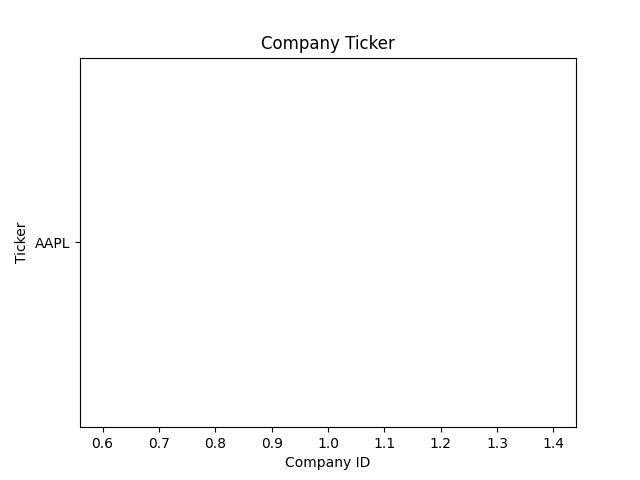
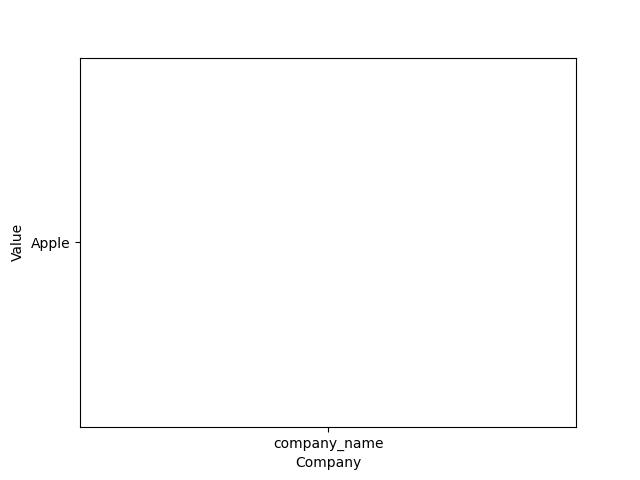
quick bug fix

diff --git a/src/services/gpt.service.js b/src/services/gpt.service.js
@@ -40,8 +40,6 @@ exports.getGPTResponse = async (prompt) => {
           if (stock){
             detail = await tipranksService.getStockDetail(stock);
             askPrompt=`this is stock comapmny symbol ${stock} give me essential detail for investor about this company`
-          }else{
-             askPrompt=prompt;
           }
         } if (resultStocks?.length >1) {
           const filename = await getGPTChart(JSON.stringify(resultStocks[0]));

diff --git a/src/services/chart.py b/src/services/chart.py
@@ -1,19 +1,14 @@
 
 import matplotlib.pyplot as plt
 
-# Data
-data = {"id": 1, "ticker": "AAPL", "company_name": "Apple"}
+data = {"company_name": "Apple"}
 
-# Create a bar chart
-plt.bar(data["id"], data["ticker"])
+# Plotting the chart
+plt.bar(data.keys(), data.values())
 
-# Set chart title and labels
-plt.title("Company Ticker")
-plt.xlabel("Company ID")
-plt.ylabel("Ticker")
+# Adding labels
+plt.xlabel("Company")
+plt.ylabel("Value")
 
-# Save the chart as output image
-plt.savefig("output.jpg")
-
-# Display the chart
-plt.show()
+# Saving the chart as an image
+plt.savefig('output.jpg')
